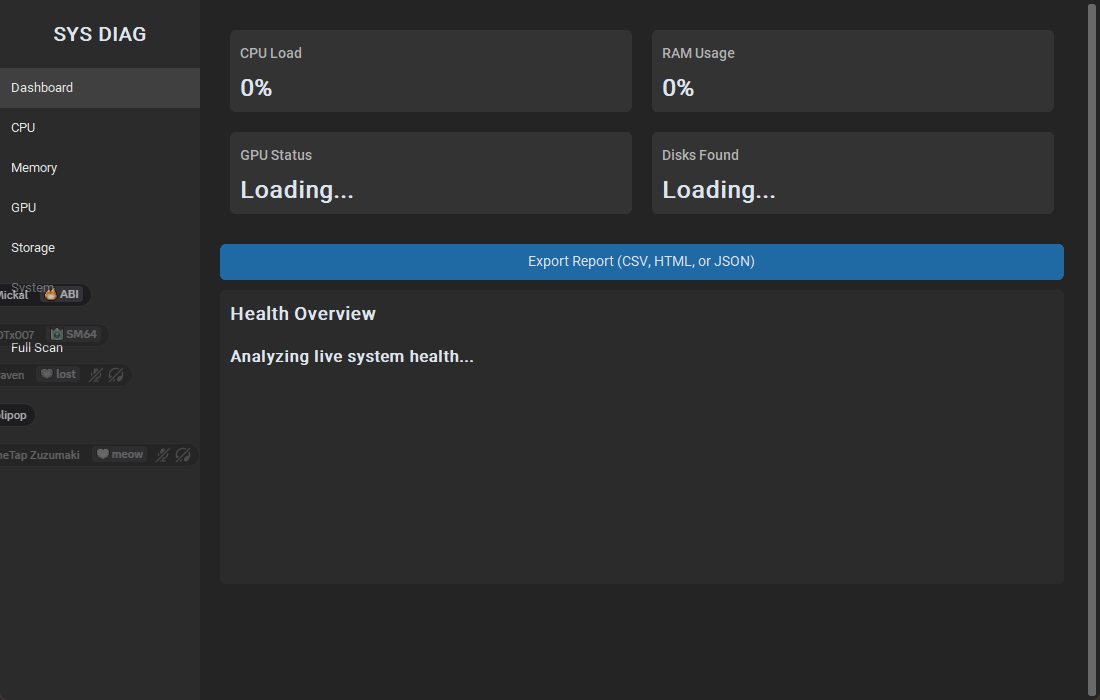
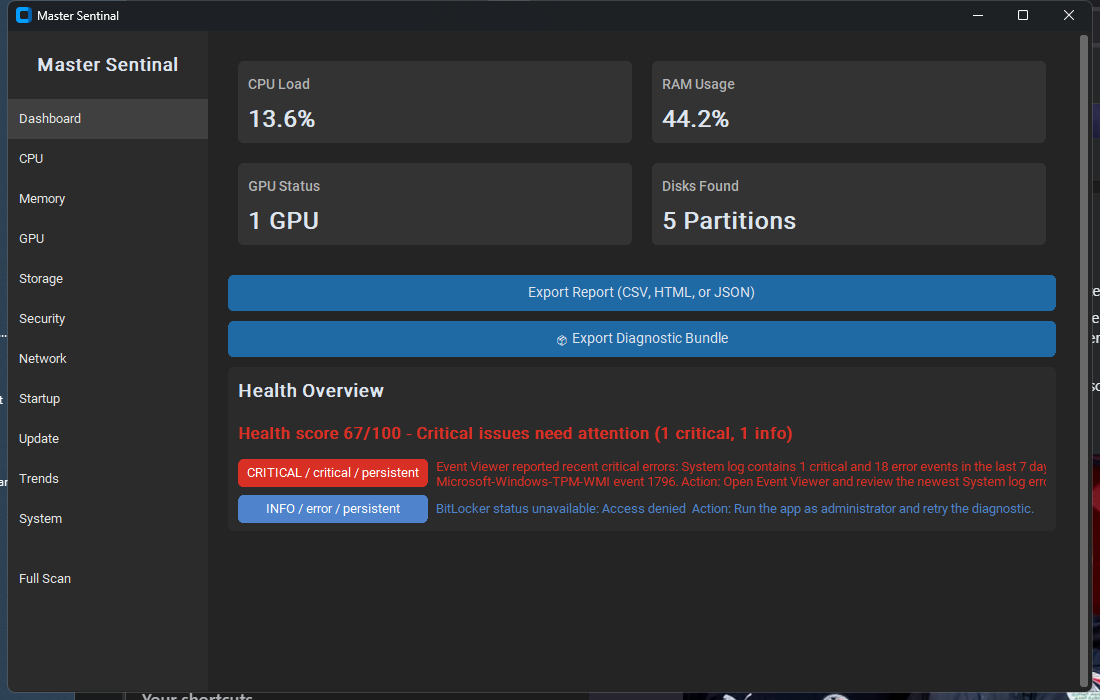
docs: update README.md with enhanced app description and features; replace screenshots

diff --git a/README.md b/README.md
@@ -3,31 +3,48 @@
 [![Tests](https://github.com/SSS-R/Master-Sentinal/actions/workflows/tests.yml/badge.svg)](https://github.com/SSS-R/Master-Sentinal/actions/workflows/tests.yml)
 [![License: MIT](https://img.shields.io/badge/License-MIT-blue.svg)](LICENSE)
 [![Python 3.11+](https://img.shields.io/badge/Python-3.11%2B-brightgreen.svg)](https://www.python.org/)
+[![Version 1.1.0](https://img.shields.io/badge/Version-1.1.0-blueviolet.svg)](CHANGELOG.md)
 
-Master Sentinal is an open source Windows diagnostics app with a live system dashboard, a guided health scan, and exportable reports for troubleshooting.
+**Master Sentinal** is a free, open source Windows diagnostics hub. It gives you a
+live system dashboard, a guided health scan with real repair tools, and shareable
+reports — all in one app, with no telemetry and no upsell.
 
-The app focuses on practical PC health checks:
+It is built for the moment something feels *off* with a PC and you want a clear,
+honest answer: what's wrong, how serious it is, and what to do next — in plain
+language, not jargon.
 
-- live CPU, memory, GPU, disk, and motherboard details
-- health findings with severity, persistence, and recommended actions
-- routine repair checks such as SFC, DISM, CHKDSK, and power diagnostics
-- advanced tools for driver and memory troubleshooting
-- CSV, HTML, and JSON reports for sharing and bug reports
+## Highlights
+
+- **Live dashboard** — CPU, memory, GPU, disk, and motherboard metrics that refresh
+  in real time, split into fast (2-second) and deep (background) tiers so the app
+  stays responsive even on busy or heavily-protected machines.
+- **Plain-language health overview** — findings are scored by severity and
+  persistence, then translated into everyday terms with concrete next steps.
+- **Guided health scan** — runs routine Windows repair checks (SFC, DISM, CHKDSK,
+  power & battery diagnostics) together, with honest time estimates.
+- **Advanced tools, handled safely** — Driver Verifier and Windows Memory
+  Diagnostic are kept separate and always ask for confirmation before they run.
+- **Real GPU temperature alerts** — warns at 85 °C and flags critical at 92 °C.
+- **Shareable reports** — export the current snapshot to CSV, HTML, or JSON.
+- **Anonymized diagnostic bundles** — one click scrubs your username, PC name, and
+  hardware serials so you can safely attach a bundle to a public bug report.
 
 ## Screenshots
 
-![Dashboard overview](docs/screenshots/dashboard-overview.png)
-![Full scan view](docs/screenshots/full-scan.png)
+| Live Dashboard | Guided Health Scan |
+| --- | --- |
+| ![Dashboard overview](docs/screenshots/dashboard-overview.png) | ![Health scan view](docs/screenshots/full-scan.png) |
 
 ## Download And Run
 
-You do not need Python to use the packaged app.
+You do **not** need Python to use the packaged app.
 
 1. Open the [Releases](https://github.com/SSS-R/Master-Sentinal/releases) page.
 2. Download the latest `Master Sentinal.exe`.
 3. Launch it and approve the Windows elevation prompt when shown.
 
-The packaged build requests administrator rights because several Windows diagnostics require elevation.
+The packaged build requests administrator rights because several Windows
+diagnostics require elevation. Read-only dashboard metrics work without it.
 
 ## Run From Source
 
@@ -47,6 +64,9 @@ python -m venv venv
 python -m pip install --upgrade pip
 python -m pip install -r requirements-dev.txt
 ```
+
+> Just running the app? Use `requirements-runtime.txt` instead of
+> `requirements-dev.txt` to skip the test and build tooling.
 
 ### Start The App
 
@@ -68,49 +88,75 @@ python .\build_app.py
 
 The packaged executable is written to `dist\Master Sentinal.exe`.
 
-## Supported Windows Versions
+## How It Works
 
-Master Sentinal is intended for:
+Master Sentinal collects system state through native Windows interfaces — `psutil`,
+WMI, and targeted PowerShell/`wmic` queries — and feeds it through a health
+analyzer that assigns each finding a severity and a persistence flag (is this a
+one-off blip or a recurring problem?).
+
+Live monitoring runs in two tiers:
+
+- **Fast tier (every ~2 s):** cheap metrics — CPU, RAM, per-core load, disk usage.
+- **Deep tier (startup + background/manual refresh):** the expensive checks —
+  Windows Update, Event Log, Reliability, Network, Storage SMART, Security,
+  Startup impact, and form-factor detection — collected concurrently so total time
+  is roughly the slowest single call rather than the sum of all of them.
+
+All PowerShell diagnostics force UTF-8 on both ends so localized (non-English)
+Windows device and event names decode correctly.
+
+## Permissions And Diagnostic Safety
+
+Master Sentinal mixes safe read-only checks with a few tools that can change system
+state or require a reboot. Nothing risky runs without an explicit confirmation.
+
+| Area | Requires admin | Notes |
+| --- | --- | --- |
+| Live dashboard metrics | Usually no | Some Security and BitLocker details are limited without elevation |
+| Routine health scan | Yes | SFC, DISM, CHKDSK, and power diagnostics need admin access |
+| Driver Verifier | Yes | Advanced troubleshooting; can make a system unstable — asks first |
+| Memory Diagnostic | Yes | Schedules a reboot-based memory test — asks first |
+| Report / bundle export | No | Exports the current snapshot to CSV, HTML, or JSON |
+
+See [docs/diagnostics-and-permissions.md](docs/diagnostics-and-permissions.md) for a
+fuller command safety guide.
+
+## Supported Windows Versions
 
 - Windows 10
 - Windows 11
 
-Most live metrics should work on current Windows 10 and 11 installs. Some deeper diagnostics depend on local Windows components, available services, hardware support, or admin access.
-
-## Permissions And Diagnostic Safety
-
-Master Sentinal mixes safe read-only checks with a few tools that can change system state or require a reboot.
-
-| Area | Requires admin | Notes |
-| --- | --- | --- |
-| Live dashboard metrics | Usually no | Some security and BitLocker details may be limited without elevation |
-| Routine health scan | Yes | SFC, DISM, CHKDSK, and power diagnostics need admin access |
-| Driver Verifier | Yes | Intended for advanced troubleshooting and can make systems unstable |
-| Memory Diagnostic | Yes | Schedules a reboot-based memory test |
-| Report export | No | Exports the current snapshot to CSV, HTML, or JSON |
-
-See [docs/diagnostics-and-permissions.md](docs/diagnostics-and-permissions.md) for a fuller command safety guide.
+Most live metrics work on current Windows 10 and 11 installs. Some deeper
+diagnostics depend on local Windows components, available services, hardware
+support, or admin access.
 
 ## Project Layout
 
-- `UnifiedDiagnostics/` application code
-- `tests/` automated tests
-- `packaging/` Windows version metadata and packaging assets
-- `.github/` workflow and repository templates
+- `UnifiedDiagnostics/` — application code (UI, services, models, modules)
+- `tests/` — automated tests
+- `packaging/` — Windows version metadata and packaging assets
+- `docs/` — diagnostic/permission docs and screenshots
+- `.github/` — CI workflows and repository templates
 
 ## Support
 
-Master Sentinal is free and open source, and it will always be free. If it
-helped you, the best ways to support the project are:
+Master Sentinal is free and open source, and it will always be free. If it helped
+you, the best ways to support the project are:
 
 - ⭐ Star the repository on GitHub so more people find it
 - 🐛 Report bugs or suggest features via [Issues](https://github.com/SSS-R/Master-Sentinal/issues)
 - 🔧 Contribute code — see [CONTRIBUTING.md](CONTRIBUTING.md)
 - ❤ Optional donations are welcome but never required
 
-When reporting a bug, you can attach a diagnostic bundle (Dashboard → **Export
-Diagnostic Bundle**). Choose **Anonymize** when prompted to automatically remove
-your Windows username, PC name, and hardware serial numbers before sharing.
+When reporting a bug, attach a diagnostic bundle (Dashboard → **Export Diagnostic
+Bundle**). Choose **Anonymize** when prompted to automatically remove your Windows
+username, PC name, and hardware serial numbers before sharing.
+
+## Roadmap & Changelog
+
+- See [CHANGELOG.md](CHANGELOG.md) for what shipped in each release.
+- See [ROADMAP.md](ROADMAP.md) for what's planned next.
 
 ## Contributing
 
